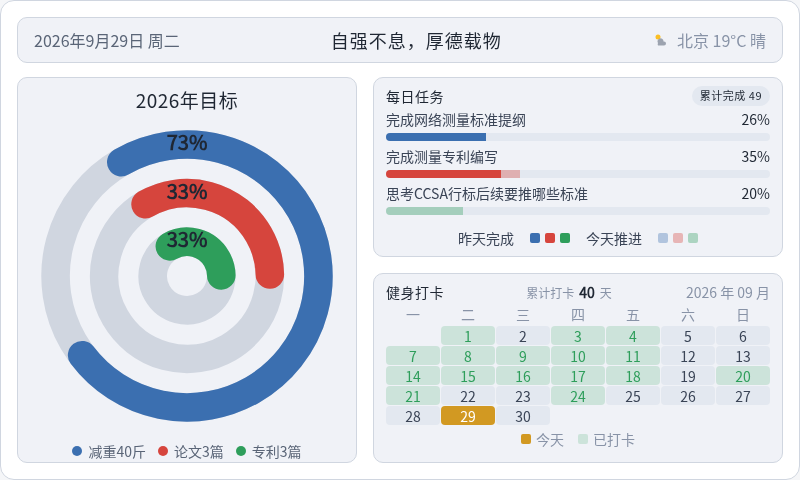
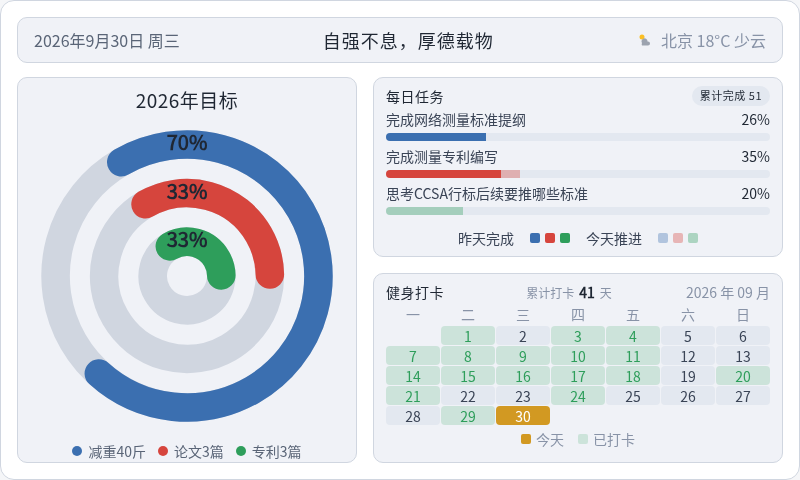
chore: 每日看板刷新 2026-09-30

diff --git a/output/dashboard/dashboard.html b/output/dashboard/dashboard.html
@@ -185,11 +185,11 @@
 <body>
   <div class="dash">
     <div class="topbar">
-      <div class="tb-date" id="tbDate">2026年9月29日 周二</div>
+      <div class="tb-date" id="tbDate">2026年9月30日 周三</div>
       <div class="tb-slogan">自强不息，厚德载物</div>
       <div class="tb-weather">
         <svg width="16" height="16" viewBox="0 0 16 16" aria-hidden="true"><circle cx="5" cy="5" r="2.5" fill="#fbbf24"/><path d="M5 11 a3 3 0 1 1 5.5 -1.5 h0.5 a2 2 0 1 1 0 4 H5 a2.5 2.5 0 0 1 0 -2.5z" fill="#9ca3af"/></svg>
-        <span>北京 19°C 晴</span>
+        <span>北京 18°C 少云</span>
       </div>
     </div>
     <div class="content">
@@ -200,9 +200,9 @@
           <svg viewBox="0 0 210 210" width="300" height="300" role="img" aria-label="三环进度仪表盘">
             <title>2026年目标三环进度</title>
             <g transform="rotate(-120 105 105)">
-              <circle cx="105" cy="105" r="92" fill="none" stroke="#d0d6e0" stroke-width="20"/><circle cx="105" cy="105" r="92" fill="none" stroke="#3b6fb0" stroke-width="20" stroke-linecap="round" stroke-dasharray="421.98 578.05"/><circle cx="105" cy="105" r="58" fill="none" stroke="#d0d6e0" stroke-width="20"/><circle cx="105" cy="105" r="58" fill="none" stroke="#d6453d" stroke-width="20" stroke-linecap="round" stroke-dasharray="120.26 364.42"/><circle cx="105" cy="105" r="24" fill="none" stroke="#d0d6e0" stroke-width="20"/><circle cx="105" cy="105" r="24" fill="none" stroke="#2e9e5b" stroke-width="20" stroke-linecap="round" stroke-dasharray="49.76 150.80"/>
+              <circle cx="105" cy="105" r="92" fill="none" stroke="#d0d6e0" stroke-width="20"/><circle cx="105" cy="105" r="92" fill="none" stroke="#3b6fb0" stroke-width="20" stroke-linecap="round" stroke-dasharray="404.64 578.05"/><circle cx="105" cy="105" r="58" fill="none" stroke="#d0d6e0" stroke-width="20"/><circle cx="105" cy="105" r="58" fill="none" stroke="#d6453d" stroke-width="20" stroke-linecap="round" stroke-dasharray="120.26 364.42"/><circle cx="105" cy="105" r="24" fill="none" stroke="#d0d6e0" stroke-width="20"/><circle cx="105" cy="105" r="24" fill="none" stroke="#2e9e5b" stroke-width="20" stroke-linecap="round" stroke-dasharray="49.76 150.80"/>
             </g>
-            <text x="105" y="13" text-anchor="middle" dominant-baseline="middle" fill="#1f2733" font-size="14" font-weight="700">73%</text><text x="105" y="47" text-anchor="middle" dominant-baseline="middle" fill="#1f2733" font-size="14" font-weight="700">33%</text><text x="105" y="81" text-anchor="middle" dominant-baseline="middle" fill="#1f2733" font-size="14" font-weight="700">33%</text>
+            <text x="105" y="13" text-anchor="middle" dominant-baseline="middle" fill="#1f2733" font-size="14" font-weight="700">70%</text><text x="105" y="47" text-anchor="middle" dominant-baseline="middle" fill="#1f2733" font-size="14" font-weight="700">33%</text><text x="105" y="81" text-anchor="middle" dominant-baseline="middle" fill="#1f2733" font-size="14" font-weight="700">33%</text>
           </svg>
         </div>
         <div class="legend"><div class="legend-row"><span class="dot" style="background:#3b6fb0"></span><span class="lg-name">减重40斤</span></div><div class="legend-row"><span class="dot" style="background:#d6453d"></span><span class="lg-name">论文3篇</span></div><div class="legend-row"><span class="dot" style="background:#2e9e5b"></span><span class="lg-name">专利3篇</span></div></div>
@@ -210,7 +210,7 @@
     </div>
     <div class="col-right">
       <div class="panel tasks-panel">
-        <div class="panel-title" style="color:#1f2733">每日任务<span class="task-done-count">累计完成  49</span></div>
+        <div class="panel-title" style="color:#1f2733">每日任务<span class="task-done-count">累计完成  51</span></div>
         <div class="task">
           <div class="task-head"><span style="color:#3a4456">完成网络测量标准提纲</span><span class="task-val" style="color:#1f2733">26%</span></div>
           <div class="bar">
@@ -242,13 +242,13 @@
           <span class="panel-title" style="margin:0;color:#1f2733">健身打卡</span>
           <span class="cal-stats">
             <span class="cal-stats-label">累计打卡</span>
-            <span class="cal-stats-num" style="color:#1f2733">40</span>
+            <span class="cal-stats-num" style="color:#1f2733">41</span>
             <span class="cal-stats-label">天</span>
           </span>
           <span class="cal-date">2026 年 09 月</span>
         </div>
         <div class="cal-grid wk"><span>一</span><span>二</span><span>三</span><span>四</span><span>五</span><span>六</span><span>日</span></div>
-        <div class="cal-grid"><span class="cell empty"></span><span class="cell done" style="background:rgba(46,158,91,0.18);color:#2e9e5b">1</span><span class="cell" style="background:#e3e8f0;color:#3a4456">2</span><span class="cell done" style="background:rgba(46,158,91,0.18);color:#2e9e5b">3</span><span class="cell done" style="background:rgba(46,158,91,0.18);color:#2e9e5b">4</span><span class="cell" style="background:#e3e8f0;color:#3a4456">5</span><span class="cell" style="background:#e3e8f0;color:#3a4456">6</span><span class="cell done" style="background:rgba(46,158,91,0.18);color:#2e9e5b">7</span><span class="cell done" style="background:rgba(46,158,91,0.18);color:#2e9e5b">8</span><span class="cell done" style="background:rgba(46,158,91,0.18);color:#2e9e5b">9</span><span class="cell done" style="background:rgba(46,158,91,0.18);color:#2e9e5b">10</span><span class="cell done" style="background:rgba(46,158,91,0.18);color:#2e9e5b">11</span><span class="cell" style="background:#e3e8f0;color:#3a4456">12</span><span class="cell" style="background:#e3e8f0;color:#3a4456">13</span><span class="cell done" style="background:rgba(46,158,91,0.18);color:#2e9e5b">14</span><span class="cell done" style="background:rgba(46,158,91,0.18);color:#2e9e5b">15</span><span class="cell done" style="background:rgba(46,158,91,0.18);color:#2e9e5b">16</span><span class="cell done" style="background:rgba(46,158,91,0.18);color:#2e9e5b">17</span><span class="cell done" style="background:rgba(46,158,91,0.18);color:#2e9e5b">18</span><span class="cell" style="background:#e3e8f0;color:#3a4456">19</span><span class="cell done" style="background:rgba(46,158,91,0.18);color:#2e9e5b">20</span><span class="cell done" style="background:rgba(46,158,91,0.18);color:#2e9e5b">21</span><span class="cell" style="background:#e3e8f0;color:#3a4456">22</span><span class="cell" style="background:#e3e8f0;color:#3a4456">23</span><span class="cell done" style="background:rgba(46,158,91,0.18);color:#2e9e5b">24</span><span class="cell" style="background:#e3e8f0;color:#3a4456">25</span><span class="cell" style="background:#e3e8f0;color:#3a4456">26</span><span class="cell" style="background:#e3e8f0;color:#3a4456">27</span><span class="cell" style="background:#e3e8f0;color:#3a4456">28</span><span class="cell today" style="background:#d29922;color:#ffffff">29</span><span class="cell" style="background:#e3e8f0;color:#3a4456">30</span></div>
+        <div class="cal-grid"><span class="cell empty"></span><span class="cell done" style="background:rgba(46,158,91,0.18);color:#2e9e5b">1</span><span class="cell" style="background:#e3e8f0;color:#3a4456">2</span><span class="cell done" style="background:rgba(46,158,91,0.18);color:#2e9e5b">3</span><span class="cell done" style="background:rgba(46,158,91,0.18);color:#2e9e5b">4</span><span class="cell" style="background:#e3e8f0;color:#3a4456">5</span><span class="cell" style="background:#e3e8f0;color:#3a4456">6</span><span class="cell done" style="background:rgba(46,158,91,0.18);color:#2e9e5b">7</span><span class="cell done" style="background:rgba(46,158,91,0.18);color:#2e9e5b">8</span><span class="cell done" style="background:rgba(46,158,91,0.18);color:#2e9e5b">9</span><span class="cell done" style="background:rgba(46,158,91,0.18);color:#2e9e5b">10</span><span class="cell done" style="background:rgba(46,158,91,0.18);color:#2e9e5b">11</span><span class="cell" style="background:#e3e8f0;color:#3a4456">12</span><span class="cell" style="background:#e3e8f0;color:#3a4456">13</span><span class="cell done" style="background:rgba(46,158,91,0.18);color:#2e9e5b">14</span><span class="cell done" style="background:rgba(46,158,91,0.18);color:#2e9e5b">15</span><span class="cell done" style="background:rgba(46,158,91,0.18);color:#2e9e5b">16</span><span class="cell done" style="background:rgba(46,158,91,0.18);color:#2e9e5b">17</span><span class="cell done" style="background:rgba(46,158,91,0.18);color:#2e9e5b">18</span><span class="cell" style="background:#e3e8f0;color:#3a4456">19</span><span class="cell done" style="background:rgba(46,158,91,0.18);color:#2e9e5b">20</span><span class="cell done" style="background:rgba(46,158,91,0.18);color:#2e9e5b">21</span><span class="cell" style="background:#e3e8f0;color:#3a4456">22</span><span class="cell" style="background:#e3e8f0;color:#3a4456">23</span><span class="cell done" style="background:rgba(46,158,91,0.18);color:#2e9e5b">24</span><span class="cell" style="background:#e3e8f0;color:#3a4456">25</span><span class="cell" style="background:#e3e8f0;color:#3a4456">26</span><span class="cell" style="background:#e3e8f0;color:#3a4456">27</span><span class="cell" style="background:#e3e8f0;color:#3a4456">28</span><span class="cell done" style="background:rgba(46,158,91,0.18);color:#2e9e5b">29</span><span class="cell today" style="background:#d29922;color:#ffffff">30</span></div>
         <div class="cal-legend">
           <span style="color:#8893a7"><i class="sw" style="background:#d29922"></i>今天</span>
           <span style="color:#8893a7"><i class="sw" style="background:rgba(46,158,91,0.18)"></i>已打卡</span>
